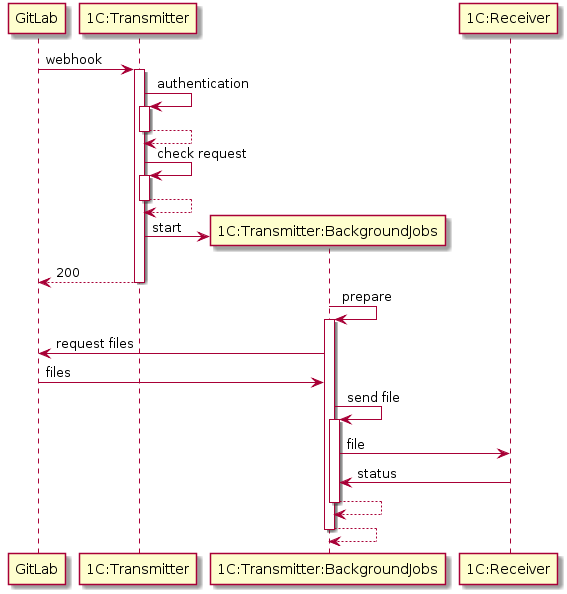
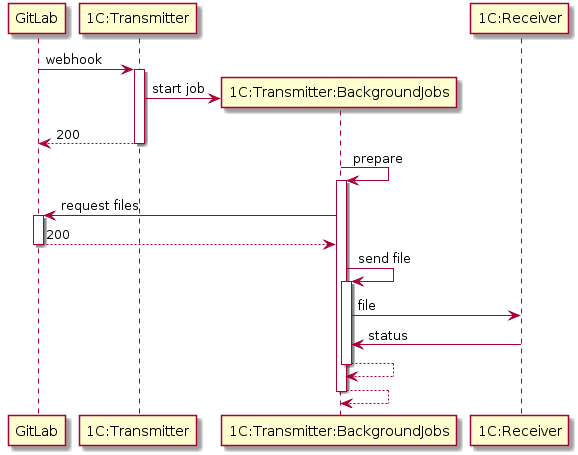
Документация

diff --git a/README.md b/README.md
@@ -43,15 +43,11 @@
 ```plantuml
 @startuml
 GitLab -> "1C:Transmitter" ++ : webhook
-"1C:Transmitter" -> "1C:Transmitter" ++ : authentication
-return
-"1C:Transmitter" -> "1C:Transmitter" ++ : check request
-return
-"1C:Transmitter" -> "1C:Transmitter:BackgroundJobs" ** : start
+"1C:Transmitter" -> "1C:Transmitter:BackgroundJobs" ** : start job
 return 200
 "1C:Transmitter:BackgroundJobs" -> "1C:Transmitter:BackgroundJobs" ++ : prepare
-GitLab <- "1C:Transmitter:BackgroundJobs" : request files
-GitLab -> "1C:Transmitter:BackgroundJobs" : files
+GitLab <- "1C:Transmitter:BackgroundJobs" ++ : request files
+return 200
 "1C:Transmitter:BackgroundJobs" -> "1C:Transmitter:BackgroundJobs" ++ : send file
 "1C:Transmitter:BackgroundJobs" -> "1C:Receiver" : file
 "1C:Transmitter:BackgroundJobs" <- "1C:Receiver" : status
